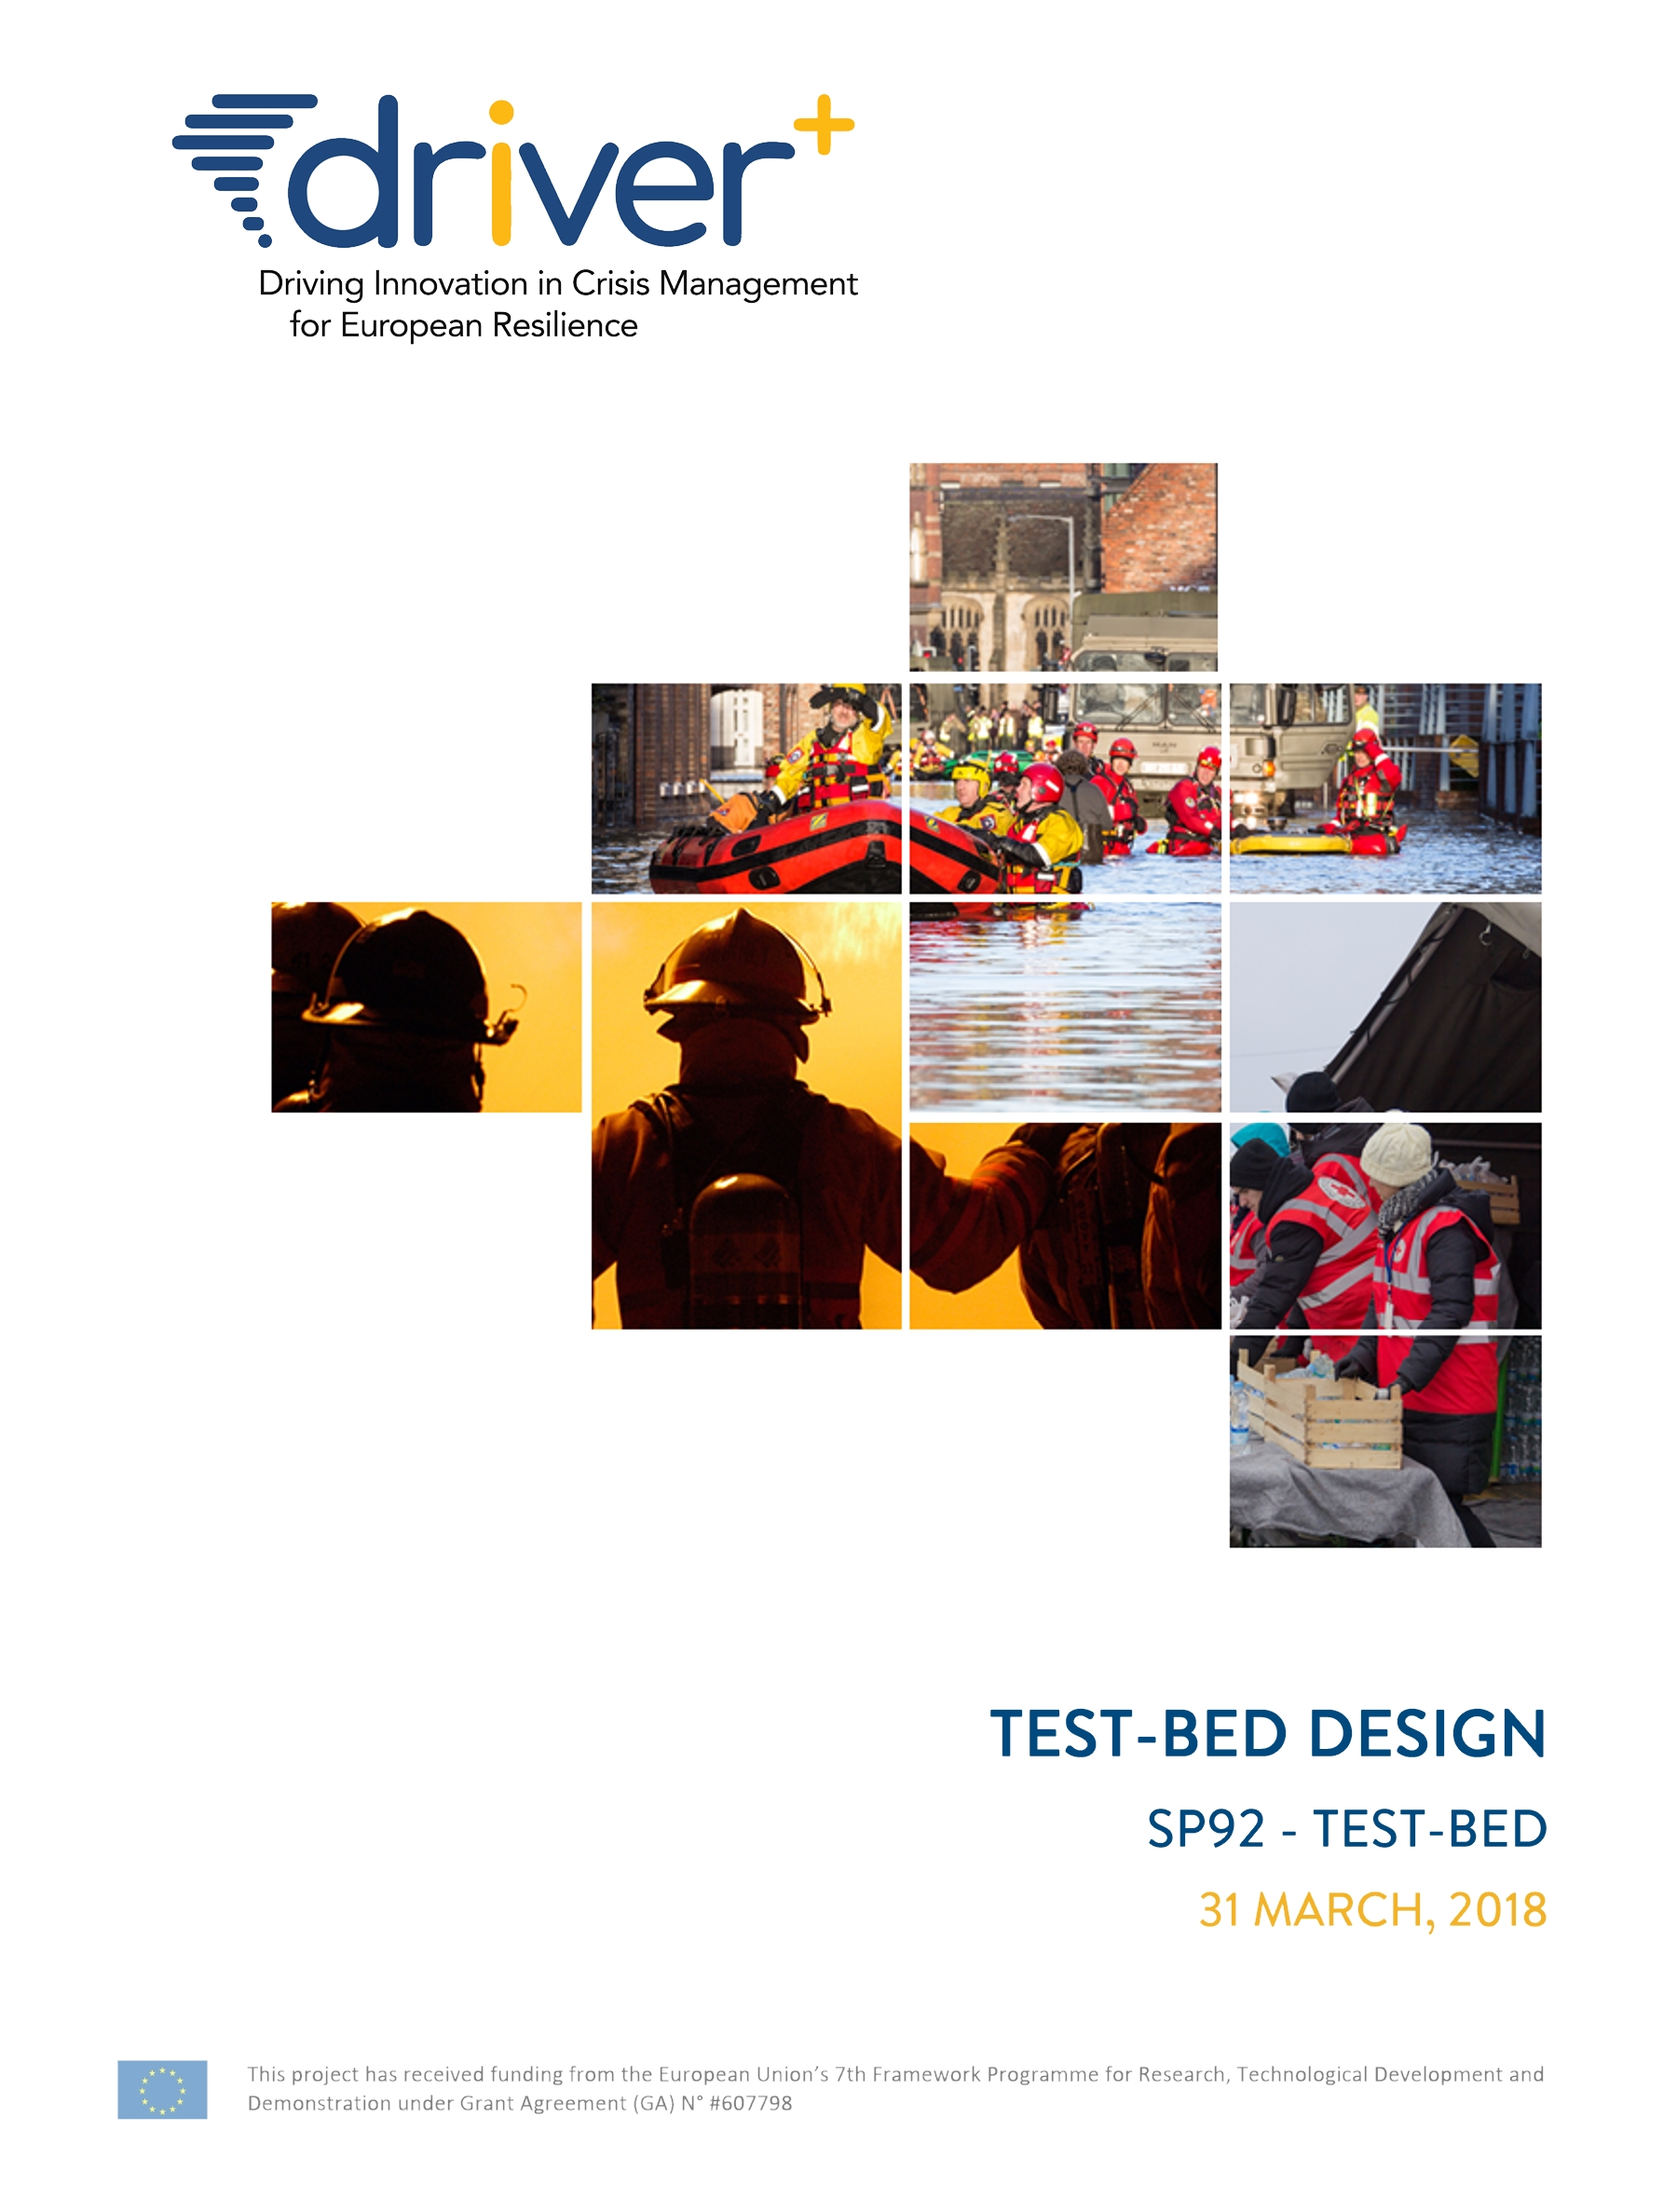
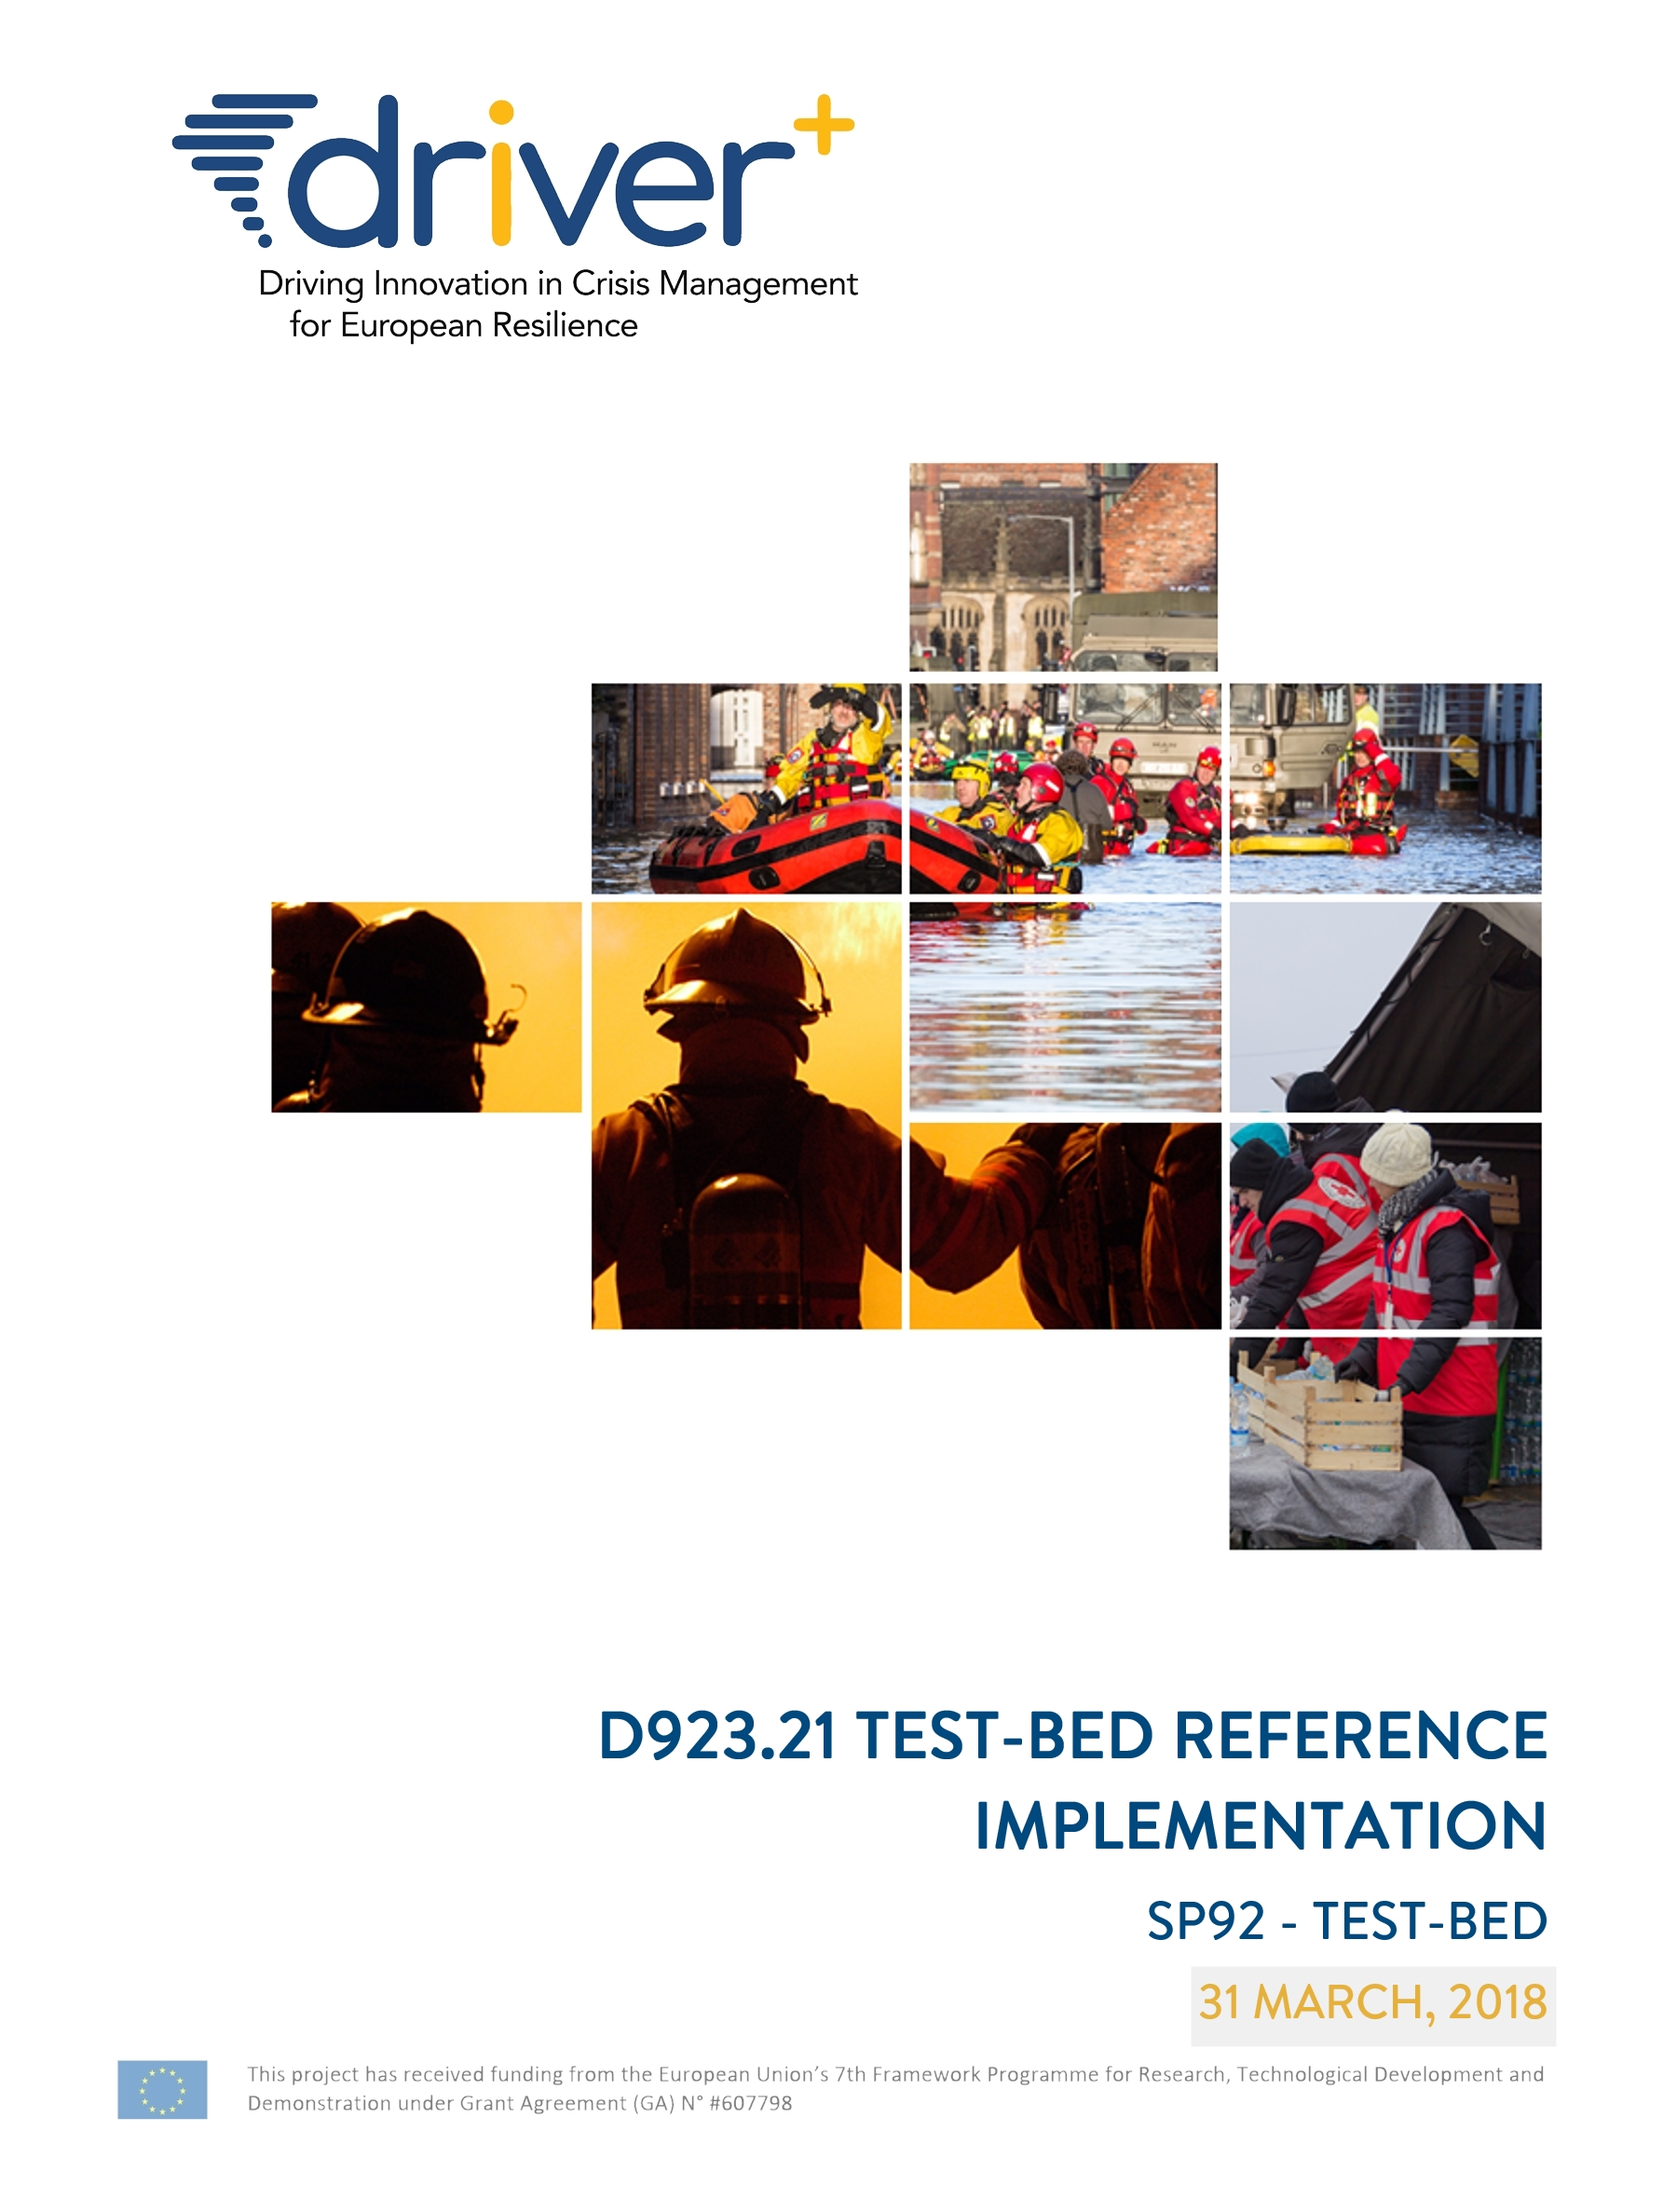
Updated document title.

Changed region(s): [[0.3422, 0.7733, 0.9333, 0.928], [0.7467, 0.5877, 0.8711, 0.7114], [0.8711, 0.6805, 0.9022, 0.7114]]

diff --git a/doc/introduction.md b/doc/introduction.md
@@ -47,9 +47,9 @@ This is actually a live document, and the latest version can always be found onl
 
 The [Test-bed description](test-bed-description.md) provides a general overview of the Test-bed reference implementation. It is an easy to read chapter which requires little technical knowledge, and is aimed at anyone who has to work with the Test-bed.
 
-The chapter, a [Test-bed for Trial owners](Trial-owners.md), is specifically aimed at Trial owners and practitioners, and discusses the functionality the Test-bed offers to them. And also, what it does not offer.
+The chapter, [Test-bed for Trial owners](Trial-owners.md), is specifically aimed at Trial owners and practitioners, and discusses the functionality the Test-bed offers to them. And also, what it does not offer.
 
-In the chapter, a [Test-bed for developers and sysops](developers.md), the technical side of the Test-bed is explained, specifically, how to manage a Test-bed as a sysop, or how to connect a solution or simulator to it as a developer.
+In the chapter, [Test-bed for developers and sysops](developers.md), the technical side of the Test-bed is explained, specifically, how to manage a Test-bed as a sysop, or how to connect a solution or simulator to it as a developer.
 
 The final chapter offers more details about the [Test-bed design](design.md), and provides an explanation for the main design decisions. The intended audience are developers that need a deeper understanding of the Test-bed and its underlying architecture, e.g. for supplementing the Test-bed or for offering a deeper integration of their solution.
 
@@ -57,4 +57,4 @@ The final chapter offers more details about the [Test-bed design](design.md), an
 
 ### Version 1 (2018-03-31)
 
-This is the first version of the Test-bed design document, describing the Test-bed reference implementation v1.
+This is the first version of D923.21 Test-bed reference implementation v1. Two updates are planned, after v2 and v3 of the Test-bed are released.

diff --git a/doc/about.md b/doc/about.md
@@ -22,7 +22,7 @@
   <tr><td style="font-weight: bold; color: white; background: #00497E">Sub-Project (SP):</td><td>SP92 - Test-bed</td></tr>
   <tr><td style="font-weight: bold; color: white; background: #00497E">Work Package (WP):</td><td>WP923 – Test-bed infrastructure</td></tr>
   <tr><td style="font-weight: bold; color: white; background: #00497E">Document Leader:</td><td>TNO</td></tr>
-  <tr><td style="font-weight: bold; color: white; background: #00497E">File Name:</td><td>test-bed-design.pdf, latest version available online at <a href="https://driver-eu.gitbooks.io/test-bed-specification" target="_blank">driver-eu.gitbooks.io/test-bed-specification</a></td></tr>
+  <tr><td style="font-weight: bold; color: white; background: #00497E">File Name:</td><td>D923.21 Test-bed reference implementation.pdf, latest version available online at <a href="https://driver-eu.gitbooks.io/test-bed-specification" target="_blank">driver-eu.gitbooks.io/test-bed-specification</a></td></tr>
 </table>
 
 
